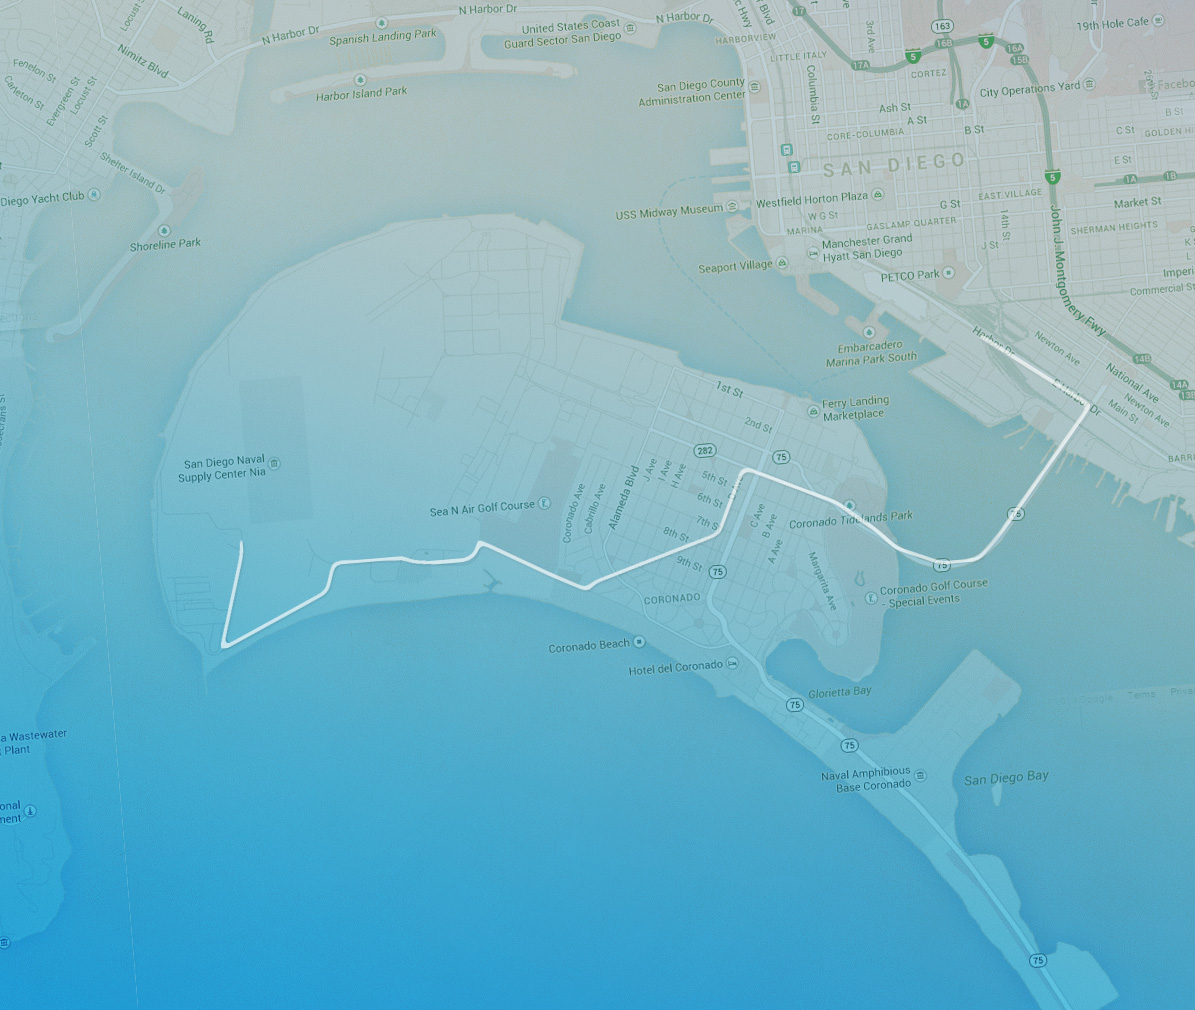
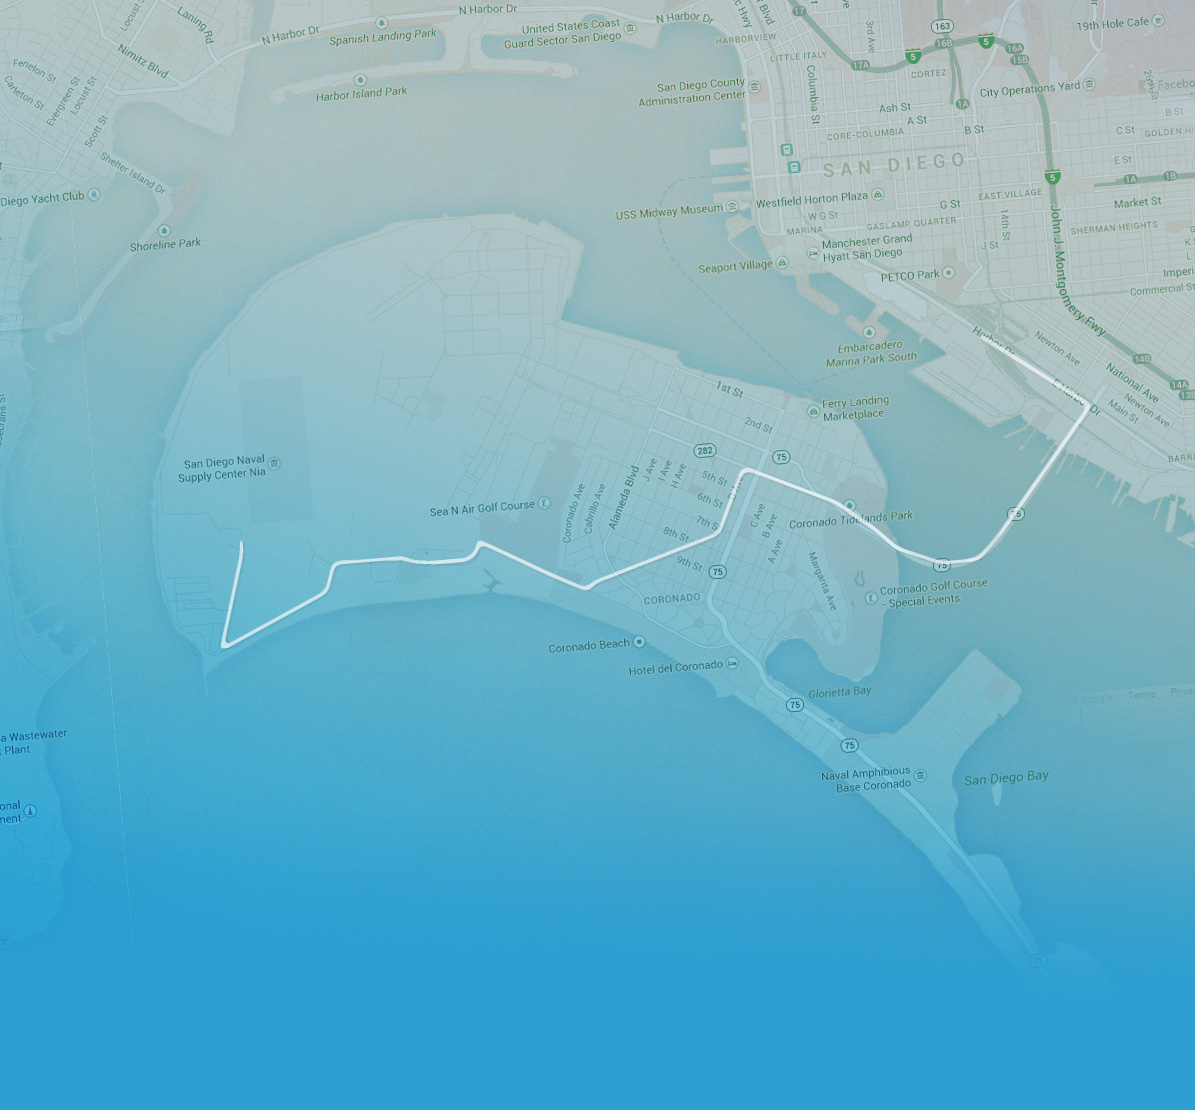
initial map section

diff --git a/app/styles/main.scss b/app/styles/main.scss
@@ -2,7 +2,7 @@
 
 $font-family-body: "freight-sans-pro";
 $font-family-header: "brandon-grotesque";
-$font-family-header-alt: "brandon-grotesque";
+$font-family-header-alt: "proxima-nova";
 
 $font-family-sans-serif: $font-family-body;
 
@@ -32,6 +32,10 @@ body, html {
 
   .container {
     min-height: 100vh;
+
+    @media (max-width: $screen-sm) {
+      min-height: 320px;
+    }
   }
 }
 
@@ -74,6 +78,32 @@ header {
   .btn {
     padding: 8px 25px;
     margin: 20px 30px;
+  }
+}
+
+.tris {
+  width: 5vw;
+  height: 2.5vw;
+  display: block;
+  margin: 2% auto 3% auto;
+
+  @media (max-width: $screen-sm) {
+    width: 40px;
+    height: 20px;
+  }
+
+  &.tris-med {
+    background: url(../images/tris-med.png) no-repeat center;
+    background-size: contain;
+  }
+}
+
+.hero-copy {
+  font-size: 18px;
+  font-size: 1.4vw;
+
+  @media (max-width: $screen-md) {
+    font-size: 14px;
   }
 }
 
@@ -128,16 +158,49 @@ header {
 
   header {
     position: absolute;
-    bottom: 10%;
+    bottom: 4%;
     left: 0;
     right: 0;
   }
+
 }
 
 #purpose-content {
   .container { 
     max-width: 644px; 
+    min-height: 0;
+  }
+
+  .tris {
+    margin-top: 12%;
   }
 
   background: url(../images/pattern-light.jpg);
+}
+
+
+#course {
+  background: #2d9fd1 url(../images/map.jpg) no-repeat center top;
+  background-size: 100% auto;
+
+  @media (max-width: $screen-xs) {
+    background-size: auto 70%;
+  }
+
+  .container {
+    min-height: 0;
+  }
+
+  .hero-copy {
+    margin: 26% auto 0 auto;
+    max-width: 544px;
+    text-align: center;
+    text-shadow: 1px 1px 10px rgba(0,0,0,0.1);
+  }
+
+  .hero-copy, .hero-copy p {
+    color: rgba(255,255,255,0.8);
+
+    &.lead { color: #fff; font-weight: 600; font-family: $font-family-header-alt; }
+  }
 }

diff --git a/app/styles/_mixins.scss b/app/styles/_mixins.scss
@@ -1,5 +1,5 @@
 .arrowed-down {
-  padding-bottom: 14.8vw;
+  padding-bottom: 13.8vw;
 
   &:before {
     width: 100vw;
@@ -30,7 +30,7 @@
 }
 
 .arrowed-up {
-  padding-top: 14.8vw;
+  padding-top: 13.8vw;
 
   &:before {
     width: 100vw;
@@ -60,14 +60,44 @@
   }
 }
 
+.arrowed-dualing {
+  div {
+    overflow: hidden;
+    width: 50%;
+    float: left;
+    height: 7.16vw;
+    position: relative;
+    @extend .arrowed-up;
+    @extend .arrowed-light;
+  }
+
+  clear: both;
+  overflow: hidden;
+}
+
+.arrowed-long-left {
+  padding-bottom: 24.8vw;
+
+  &:after {
+    width: 100vw;
+    height: 100vh;
+    background: white;
+    position: absolute;
+    left: 0;
+    top: 100%;
+    margin-top: -14.8vw;
+    //-webkit-transform-style: preserve-3d; 
+    //-webkit-backface-visibility: hidden;
+    transform: skewY(-16.5deg);
+
+    content: "";
+  }
+}
+
 .arrowed-dark { 
-    &:before, &:after { background: url(../images/pattern-dark.jpg); }
+  &:before, &:after { background: url(../images/pattern-dark.jpg); }
 }
 
 .arrowed-light { 
-    &:before, &:after { background: url(../images/pattern-light.jpg); }
-}
-
-.extra-arrows {
-
+  &:before, &:after { background: url(../images/pattern-light.jpg); }
 }

diff --git a/app/styles/_typography.scss b/app/styles/_typography.scss
@@ -1,7 +1,7 @@
 h1 {
   font-size: 84px;
   font-size: 7vw;
-  line-height: 5vw;
+  line-height: 5.5vw;
   color: #fff;
   font-weight: 900;
   text-transform: uppercase;
@@ -12,6 +12,8 @@ h1 {
     line-height: 38px;
   }
 }
+
+.inverted h1 { color: black; }
 
 h2 {
   padding-top: 8.3%;
@@ -35,7 +37,7 @@ h3, h1 small {
   font-size:  2.333vw;
   line-height: 2.3vw;
   color: #b9b9b9;
-  font-weight: 400;
+  font-weight: 700;
   text-transform: uppercase;
   font-family: $font-family-header-alt;
 
@@ -51,9 +53,11 @@ h3, h1 small {
   }
 }
 
+.inverted h3 { color: #fff; }
+
 h1 small {
   display: block;
-  padding: 0.5% 0 0.25% 0;
+  padding: 0.5% 0 0.5% 0;
 }
 
 h4 {
